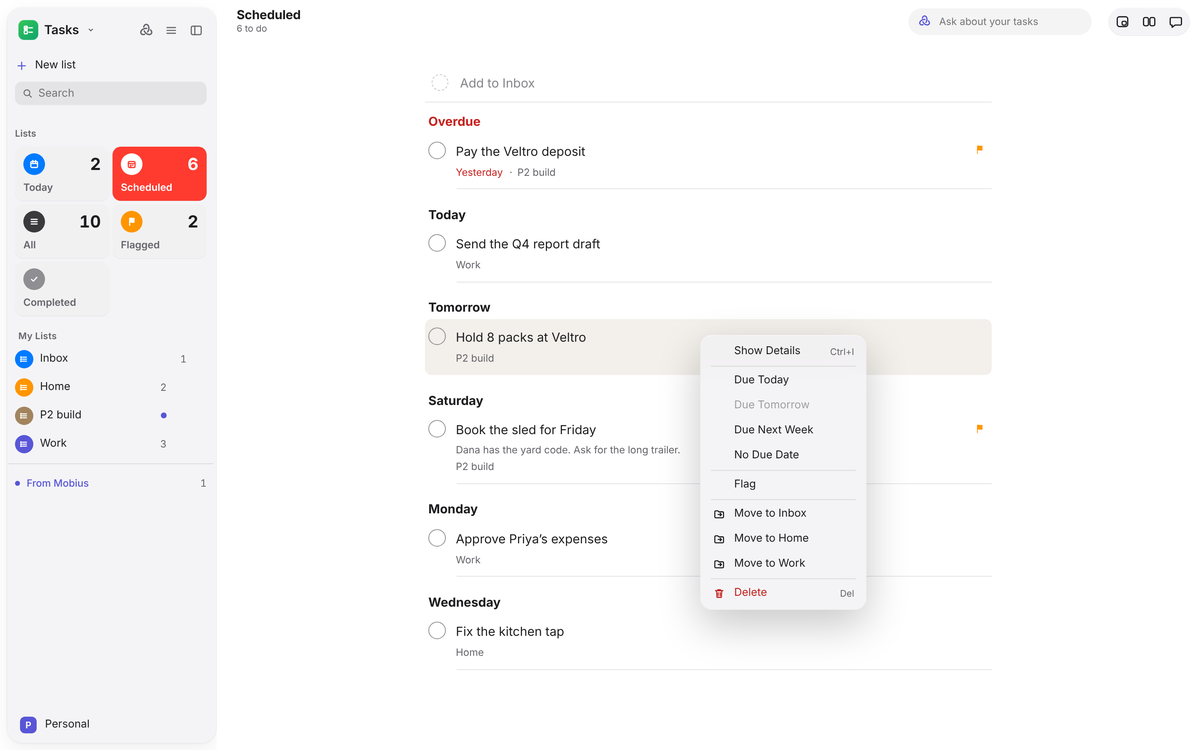
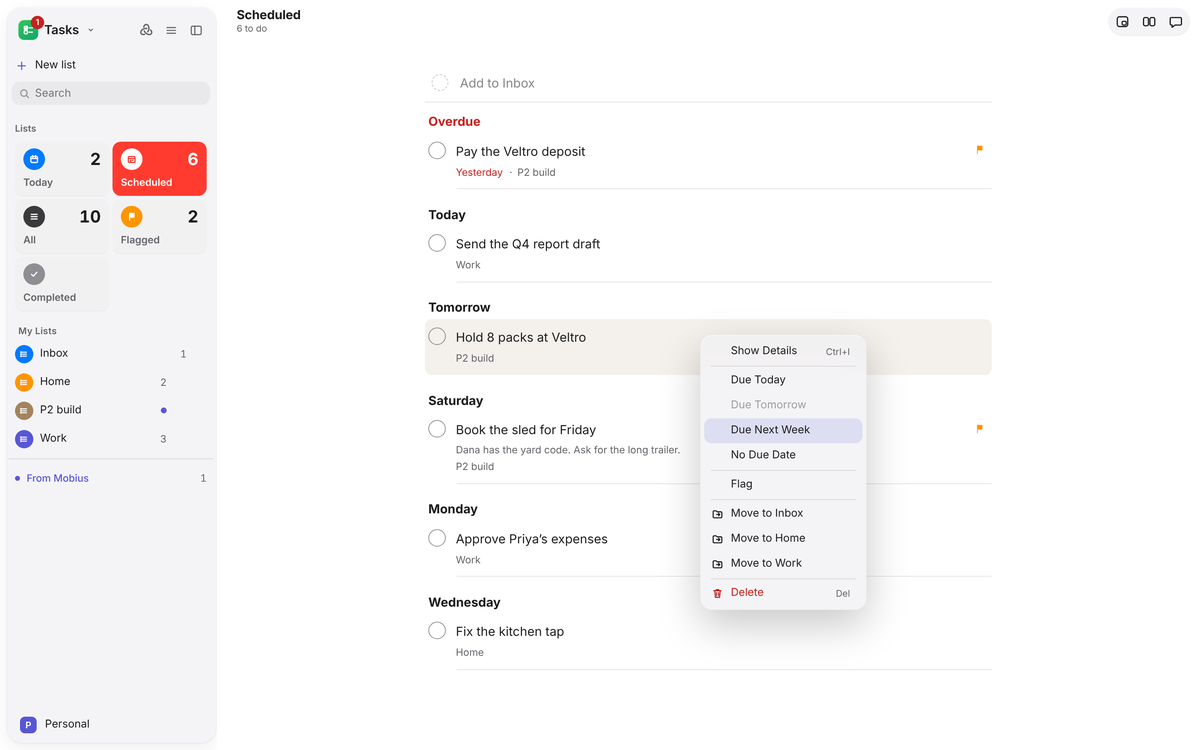
Tasks: shared sidebar search and dates, a due-date button in Details (#74)
* Tasks: right-click menu, Scheduled by day, and keyboard control

- Right-click a task (or press the menu key) for Show Details, Due Today /
  Tomorrow / Next Week / No Due Date, Flag, Move to a list and Delete, using
  the shared ContextMenu.
- Scheduled groups tasks under Overdue, Today, Tomorrow, each weekday of the
  coming week, then by month, as in Reminders (byDay in tasks-view, tested).
  Rows under an exact day heading don't repeat the date.
- Keyboard: Up/Down move between tasks (Down from the add field reaches the
  first), Space ticks, Enter renames, Ctrl/Cmd+I shows details, Delete deletes
  (with the existing Undo). The focused row reads as selected.
- README Tasks screenshot retaken; docs/apps/write-and-plan.md updated; new
  e2e test in tasks.spec.

Claude-Session: https://claude.ai/code/session_01VRGwo8QMVaVkAu7eu66zmH

* Tasks: make the e2e's Task and Flag locators exact

'Task' also matched the inspector's 'New subtask' field (strict mode violation in e2e shard 3/3).

Claude-Session: https://claude.ai/code/session_01VRGwo8QMVaVkAu7eu66zmH

* Tasks: shared sidebar search and dates, a due-date button in Details

- The sidebar search is the shared `.side-search` field (28px, magnifier),
  replacing Tasks' own field and glyph; the old .tasks-search CSS is gone.
- Due labels and Scheduled headings go through dates.ts, so weekdays, dates
  and months follow the computer's regional format (unit tests for en-GB,
  en-US and de-DE).
[…]

diff --git a/apps/desktop/src/Tasks.tsx b/apps/desktop/src/Tasks.tsx
@@ -11,6 +11,7 @@ import { keepTurn, turnId } from './ReviewStrip';
 import { tasksIn } from './tasks-view';
 import { SideNew, type Start } from './SideNew';
 import { FromMobius } from './FromMobius';
+import { dayLabel } from './dates';
 import './tasks.css';
 
 /** A task being dragged: which list it is in and where. */
@@ -82,10 +83,7 @@ export function TasksSidebar({ tasks, pin, changed, pinned, onPin, starts, onSta
   const deletingInfo = tasks.lists.find((l) => l.name === deleting);
   return (
     <aside className="side tasks-side" aria-label="Tasks sidebar">
-      <label className="tasks-search">
-        <svg viewBox="0 0 20 20" aria-hidden="true"><circle cx="9" cy="9" r="5" /><path d="m13 13 3.5 3.5" /></svg>
-        <input type="search" aria-label="Search tasks" placeholder="Search" value={tasks.query} onChange={(e) => tasks.setQuery(e.target.value)} onKeyDown={(e) => { if (e.key === 'Escape') tasks.setQuery(''); }} />
-      </label>
+      <input className="side-search" type="search" aria-label="Search tasks" placeholder="Search" value={tasks.query} onChange={(e) => tasks.setQuery(e.target.value)} onKeyDown={(e) => { if (e.key === 'Escape') tasks.setQuery(''); }} />
       <SideNew item="list" onNew={() => setNaming(true)} {...(starts ? { starts } : {})} {...(onStart ? { onStart } : {})} />
       <div className="side-head">
         <span className="side-title">Lists</span>
@@ -388,6 +386,14 @@ function useListReview(conversation: string | null, list: string | null) {
   };
 }
 
+/** A due date for the details panel: "Tomorrow, 13 Nov" near now, else "Fri 20 Nov", in the computer's format. */
+function longDue(due: string, now: Date): string {
+  const [y, m, d] = due.split('-').map(Number);
+  const date = new Date(y!, m! - 1, d!);
+  const near = dueLabel(due, now).text;
+  return ['Today', 'Tomorrow', 'Yesterday'].includes(near) ? `${near}, ${dayLabel(date, { now })}` : dayLabel(date, { now, weekday: 'short' });
+}
+
 /** Quick days for a due date: today, tomorrow, the next Monday. */
 function quickDays(now: Date): { label: string; day: string }[] {
   const plus = (n: number) => isoDay(new Date(now.getFullYear(), now.getMonth(), now.getDate() + n));
@@ -400,6 +406,7 @@ function TaskInspector({ tasks, list, task, onAsk }: { tasks: TasksState; list: 
   const [title, setTitle] = useState(task.text);
   const [notes, setNotes] = useState(task.notes ?? '');
   const [sub, setSub] = useState('');
+  const dateField = useRef<HTMLInputElement>(null);
   useEffect(() => { setTitle(task.text); }, [task.text]);
   useEffect(() => { setNotes(task.notes ?? ''); }, [task.notes, task.line]);
   useEffect(() => {
@@ -424,11 +431,17 @@ function TaskInspector({ tasks, list, task, onAsk }: { tasks: TasksState; list: 
         <button type="button" className="btn" onClick={() => tasks.pick(null)}>Done</button>
       </header>
       <textarea className="task-inspector-title" aria-label="Task" rows={2} value={title} maxLength={500} onChange={(e) => setTitle(e.target.value.replace(/\n/g, ' '))} onBlur={keepTitle} onKeyDown={(e) => { if (e.key === 'Enter') { e.preventDefault(); e.currentTarget.blur(); } }} />
-      <textarea className="task-inspector-notes" aria-label="Notes" placeholder="Notes" rows={4} value={notes} maxLength={4000} onChange={(e) => setNotes(e.target.value)} onBlur={keepNotes} />
+      <textarea className="task-inspector-notes" aria-label="Notes" placeholder="Add notes" rows={2} value={notes} maxLength={4000} onChange={(e) => setNotes(e.target.value)} onBlur={keepNotes} />
       <section className="inspector-group" aria-label="When">
         <div className="inspector-row">
           <span className="inspector-label">Due</span>
-          <input type="date" className="task-date" aria-label="Due date" value={task.due ?? ''} onChange={(e) => void tasks.change(list, task, { due: e.target.value || null })} />
+          {/* A pop-up button with the date in words; the system's date picker opens from it. */}
+          <span className="inspector-date" data-tone={task.due ? dueLabel(task.due, now).tone : undefined}>
+            <button type="button" className="inspector-date-btn" aria-hidden="true" tabIndex={-1} onClick={() => { try { dateField.current?.showPicker(); } catch { dateField.current?.focus(); } }}>
+              {task.due ? longDue(task.due, now) : 'None'}
+            </button>
+            <input ref={dateField} type="date" className="inspector-date-input" aria-label="Due date" value={task.due ?? ''} onChange={(e) => void tasks.change(list, task, { due: e.target.value || null })} />
+          </span>
         </div>
         <div className="inspector-chips">
           {quickDays(now).map((q) => <button key={q.label} type="button" className="chip" aria-pressed={task.due === q.day} onClick={() => void tasks.change(list, task, { due: q.day })}>{q.label}</button>)}

diff --git a/apps/desktop/src/tasks-view.ts b/apps/desktop/src/tasks-view.ts
@@ -1,4 +1,5 @@
 import type { TaskItem } from '@mobius/shared';
+import { dayLabel, formatWith, weekdayLabel } from './dates';
 
 /** The list every task lands in when no list is named (matches the Rust side). */
 export const DEFAULT_LIST_NAME = 'Inbox';
@@ -27,8 +28,6 @@ export const SMART_VIEWS: readonly { id: SmartView; name: string }[] = [
 export const smartName = (id: SmartView): string => SMART_VIEWS.find((v) => v.id === id)?.name ?? 'Today';
 export interface Located { list: string; task: TaskItem }
 
-const MONTHS = ['Jan', 'Feb', 'Mar', 'Apr', 'May', 'Jun', 'Jul', 'Aug', 'Sep', 'Oct', 'Nov', 'Dec'];
-const DAYS = ['Sunday', 'Monday', 'Tuesday', 'Wednesday', 'Thursday', 'Friday', 'Saturday'];
 
 const dayNumber = (d: Date) => Math.round(Date.UTC(d.getFullYear(), d.getMonth(), d.getDate()) / 86_400_000);
 const parse = (due: string) => { const [y, m, d] = due.split('-').map(Number); return new Date(y!, m! - 1, d!); };
@@ -39,12 +38,12 @@ export const isoDay = (d: Date) => `${d.getFullYear()}-${String(d.getMonth() + 1
 export function dueLabel(due: string, now: Date): { text: string; tone: DueTone } {
   const date = parse(due);
   const days = dayNumber(date) - dayNumber(now);
-  const plain = `${date.getDate()} ${MONTHS[date.getMonth()]}${date.getFullYear() === now.getFullYear() ? '' : ` ${date.getFullYear()}`}`;
+  const plain = dayLabel(date, { now });
   if (days === 0) return { text: 'Today', tone: 'today' };
   if (days === 1) return { text: 'Tomorrow', tone: 'soon' };
   if (days === -1) return { text: 'Yesterday', tone: 'late' };
   if (days < 0) return { text: plain, tone: 'late' };
-  if (days < 7) return { text: DAYS[date.getDay()]!, tone: 'soon' };
+  if (days < 7) return { text: weekdayLabel(date, 'long'), tone: 'soon' };
   return { text: plain, tone: 'later' };
 }
 
@@ -149,7 +148,6 @@ export function parseWhen(text: string, now: Date): { text: string; due: string;
   return { text: rest, due: isoDay(date), phrase: m[0].trim() };
 }
 
-const MONTH_NAMES = ['January', 'February', 'March', 'April', 'May', 'June', 'July', 'August', 'September', 'October', 'November', 'December'];
 
 /**
  * Scheduled tasks under day headings, as in Reminders: Overdue, Today, Tomorrow, each weekday of the coming week, then
@@ -165,10 +163,10 @@ export function byDay(rows: readonly Located[], now: Date): { key: string; label
     if (days < 0) { key = 'overdue'; label = 'Overdue'; exact = false; }
     else if (days === 0) { key = r.task.due; label = 'Today'; }
     else if (days === 1) { key = r.task.due; label = 'Tomorrow'; }
-    else if (days < 7) { key = r.task.due; label = DAYS[date.getDay()]!; }
+    else if (days < 7) { key = r.task.due; label = weekdayLabel(date, 'long'); }
     else {
       key = `${date.getFullYear()}-${date.getMonth()}`; exact = false;
-      label = `${MONTH_NAMES[date.getMonth()]}${date.getFullYear() === now.getFullYear() ? '' : ` ${date.getFullYear()}`}`;
+      label = formatWith(date, { month: 'long', ...(date.getFullYear() === now.getFullYear() ? {} : { year: 'numeric' }) });
     }
     const group = out.find((g) => g.key === key);
     if (group) group.rows.push(r);

diff --git a/apps/desktop/src/tasks.css b/apps/desktop/src/tasks.css
@@ -29,11 +29,6 @@
 .tasks-side, .tasks-page { --flag: #ff9500; }
 
 /* ---------- Sidebar ---------- */
-.tasks-search { position: relative; display: flex; align-items: center; margin: 0 var(--sp-2) var(--sp-3); }
-.tasks-search svg { position: absolute; left: 8px; width: 14px; height: 14px; fill: none; stroke: var(--muted); stroke-width: 1.6; stroke-linecap: round; pointer-events: none; }
-.tasks-search input { width: 100%; height: 28px; padding: 0 8px 0 28px; border: 0; border-radius: var(--radius-control); background: color-mix(in srgb, var(--ink) 7%, transparent); color: var(--ink); font-size: var(--fs-md); outline: none; }
-.tasks-search input:focus-visible { box-shadow: 0 0 0 3px color-mix(in srgb, var(--accent) 35%, transparent); }
-.tasks-search input::-webkit-search-cancel-button { cursor: pointer; }
 
 .smart-tiles { display: grid; grid-template-columns: 1fr 1fr; gap: 8px; margin: 0 var(--sp-2) var(--sp-4) !important; }
 .tasks-side .smart-tile { display: grid; grid-template-columns: auto 1fr; grid-template-rows: auto auto; align-items: center; gap: 6px 4px; width: 100%; height: auto; min-height: 0; padding: 8px 10px 7px; border-radius: 10px; background: color-mix(in srgb, var(--ink) 6%, var(--bg)); box-shadow: 0 0.5px 0 color-mix(in srgb, var(--ink) 8%, transparent); text-align: left; transition: background var(--dur-fast) var(--ease), transform var(--dur-fast) var(--ease); }
@@ -227,3 +222,12 @@
 /* Scheduled: day headings in the ink colour, Overdue in red, as in Reminders. */
 .tasks-day .tasks-group-head { font-size: var(--fs-lg); color: var(--ink); }
 .tasks-day[data-overdue] .tasks-group-head { color: var(--danger); }
+
+/* Details: the due date as words on a pop-up button; the real date field sits over it, invisible, so a click or the
+   keyboard reaches the system's picker. */
+.inspector-date { position: relative; display: inline-flex; align-items: center; }
+.inspector-date-btn { padding: 3px 10px; border-radius: var(--radius-control); background: color-mix(in srgb, var(--ink) 6%, transparent); color: var(--ink); font-size: var(--fs-md); }
+.inspector-date[data-tone="late"] .inspector-date-btn { color: var(--danger); }
+.inspector-date-input { position: absolute; inset: 0; width: 100%; height: 100%; opacity: 0; cursor: pointer; }
+.inspector-date-input::-webkit-calendar-picker-indicator { position: absolute; inset: 0; width: auto; height: auto; opacity: 0; cursor: pointer; }
+.inspector-date:has(.inspector-date-input:focus-visible) .inspector-date-btn { outline: 2px solid color-mix(in srgb, var(--accent) 55%, transparent); }

diff --git a/apps/desktop/src/tasks-view.test.ts b/apps/desktop/src/tasks-view.test.ts
@@ -1,9 +1,13 @@
-import { describe, expect, it } from 'vitest';
+import { afterAll, beforeAll, describe, expect, it } from 'vitest';
+import { setLocaleForTests } from './dates';
 import type { TaskItem } from '@mobius/shared';
 import { byDay, byList, dueLabel, LIST_COLORS, listColor, nest, parseWhen, searchTasks, smartView, splitDone, tasksIn } from './tasks-view';
 
 const t = (text: string, due: string | null = null, done = false, line = 0): TaskItem => ({ line, text, done, due });
 const today = new Date(2026, 10, 6, 15, 0); // 6 November 2026, afternoon
+// Dates follow the computer's regional format; these are written for en-GB.
+beforeAll(() => setLocaleForTests('en-GB'));
+afterAll(() => setLocaleForTests(null));
 
 describe('due dates in plain words', () => {
   it('says today, tomorrow, the weekday this week, else the date, and marks what is late', () => {
@@ -94,5 +98,16 @@ describe('scheduled by day', () => {
   });
   it('leaves out tasks without a date', () => {
     expect(byDay([{ list: 'Inbox', task: t('no date') }], today)).toEqual([]);
+  });
+});
+
+describe('dates in the regional format', () => {
+  it('writes the date and month the way the computer does', () => {
+    setLocaleForTests('en-US');
+    expect(dueLabel('2026-11-20', today).text).toBe('Nov 20');
+    expect(byDay([{ list: 'Inbox', task: t('x', '2027-01-02') }], today)[0]!.label).toBe('January 2027');
+    setLocaleForTests('de-DE');
+    expect(dueLabel('2026-11-10', today).text).toBe('Dienstag');
+    setLocaleForTests('en-GB');
   });
 });

diff --git a/docs/apps/write-and-plan.md b/docs/apps/write-and-plan.md
@@ -55,8 +55,9 @@ Lists of things to do, as in Apple's Reminders.
 - **Keyboard**: the up and down arrows move between tasks (down from the add field reaches the first one), Space ticks
   the selected task, Enter renames it, Ctrl+I (⌘I on a Mac) shows its details and Delete deletes it.
 - **Completing a task** fills its check and leaves the row for a moment, so a second click takes it back.
-- **The inspector** beside the list holds a task's notes, when it is due (today, tomorrow, next Monday or any date), its
-  flag, its list and its subtasks. Drag tasks to reorder them or move them between lists.
+- **The inspector** beside the list holds a task's notes, when it is due (today, tomorrow, next Monday or any date,
+  picked from the date button), its flag, its list and its subtasks. Dates are written in your computer's regional
+  format. Drag tasks to reorder them or move them between lists.
 - Tasks Mobius added are dashed until kept. **Discard** puts the list back as it was before that turn.
 
 **Kept in:** `workspace/tasks/`, each list a Markdown file of checkbox lines.
